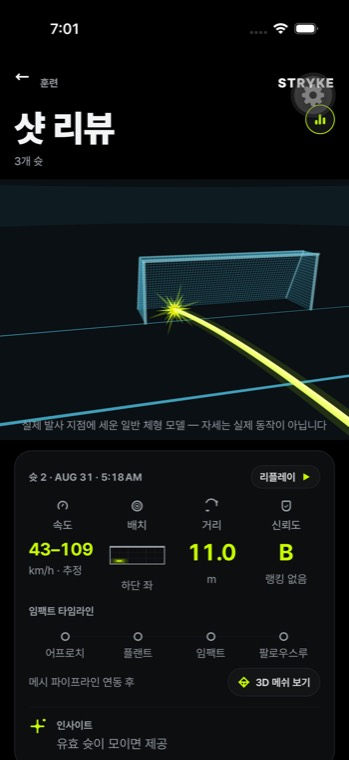
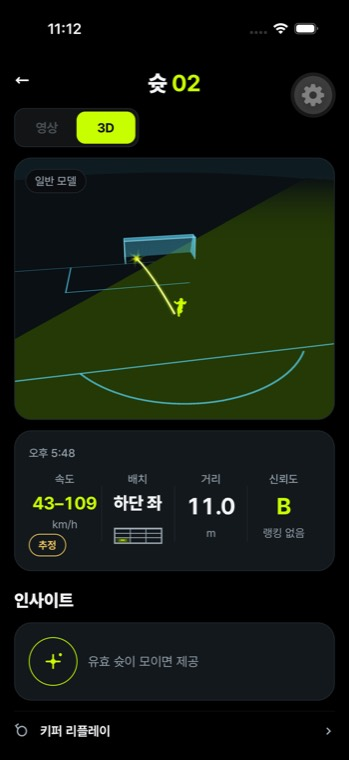
docs(stryke): design page after three QA rounds — all eight screens exist, none match
Records, Rankings and Compare were built during the loop; at round 1 they did
not exist at all. Build column refreshed to the round-3 captures.

Records the scores rather than the impression: average 43/100 across thirty
agents and three rounds, no screen passing. Setup closest at 62, Compare
furthest at 24. The loop ran out of rounds, not out of gaps.

Also records the one gap refused on honesty grounds — the JK 팁 card wants a
photographed coach portrait, and a generated face presented as a real coach is
not shippable at any fidelity score.

diff --git a/stryke/design.html b/stryke/design.html
@@ -57,7 +57,7 @@ footer{margin-top:60px;padding-top:18px;border-top:1px solid var(--line);color:v
 <p class="eyebrow">STRYKE · design targets vs the build</p>
 <h1>The <em>Design</em></h1>
 <p class="lede">The eight screens we are building toward, each next to what the app actually renders today. The gap is the point of the page — this is a working document, not a portfolio.</p>
-<p class="lede" style="font-size:13.5px;margin-top:14px">Build screenshots are from the simulator at 19:00 on 31 Aug 2026, captured by the design-QA loop. A second round is running now; where a screen says a fix is in progress, that is what is meant.</p>
+<p class="lede" style="font-size:13.5px;margin-top:14px">Build screenshots are unretouched simulator captures after <b>three rounds</b> of the design-QA loop, 31 Aug 2026. The score on each screen is that round's adversarial fidelity rating against its mockup. <b>Average 43/100, and not one screen passed.</b></p>
 
 <h2><span class="n">01</span>The colour system</h2>
 <p>Five colours, and that is the whole palette. The most important rule here is the last one: amber is not decoration.</p>
@@ -79,7 +79,7 @@ footer{margin-top:60px;padding-top:18px;border-top:1px solid var(--line);color:v
 <p>Left is the target, right is the build. Where the right side is missing, the screen does not exist yet.</p>
 
 <div class="scr">
-<h3>01 · Discover <span style="color:var(--mut);font-weight:400">디스커버</span> <span class="tag t-part">partial</span></h3>
+<h3>01 · Discover <span style="color:var(--mut);font-weight:400">디스커버</span> <span class="tag t-part">46/100</span></h3>
 <div class="pair">
   <div class="shot"><div class="cap tgt">Target</div><img src="design/mock-01.jpg" alt="Discover target"></div>
   <div class="shot"><div class="cap now">Build</div><img src="design/build-discover.jpg" alt="Discover build"></div>
@@ -91,7 +91,7 @@ footer{margin-top:60px;padding-top:18px;border-top:1px solid var(--line);color:v
 </div>
 
 <div class="scr">
-<h3>02 · Setup <span style="color:var(--mut);font-weight:400">세팅</span> <span class="tag t-part">partial</span></h3>
+<h3>02 · Setup <span style="color:var(--mut);font-weight:400">세팅</span> <span class="tag t-part">62/100 — best</span></h3>
 <div class="pair">
   <div class="shot"><div class="cap tgt">Target</div><img src="design/mock-02.jpg" alt="Setup target"></div>
   <div class="shot"><div class="cap now">Build</div><img src="design/build-setup.jpg" alt="Setup build"></div>
@@ -102,7 +102,7 @@ footer{margin-top:60px;padding-top:18px;border-top:1px solid var(--line);color:v
 </div>
 
 <div class="scr">
-<h3>03 · Shot map <span style="color:var(--mut);font-weight:400">숏 맵</span> <span class="tag t-part">partial</span></h3>
+<h3>03 · Shot map <span style="color:var(--mut);font-weight:400">숏 맵</span> <span class="tag t-part">52/100</span></h3>
 <div class="pair">
   <div class="shot"><div class="cap tgt">Target</div><img src="design/mock-03.jpg" alt="Shot map target"></div>
   <div class="shot"><div class="cap now">Build</div><img src="design/build-shotmap.jpg" alt="Shot map build"></div>
@@ -114,7 +114,7 @@ footer{margin-top:60px;padding-top:18px;border-top:1px solid var(--line);color:v
 </div>
 
 <div class="scr">
-<h3>04 · Keeper replay <span style="color:var(--mut);font-weight:400">키퍼 리플레이</span> <span class="tag t-part">partial</span></h3>
+<h3>04 · Keeper replay <span style="color:var(--mut);font-weight:400">키퍼 리플레이</span> <span class="tag t-part">34/100</span></h3>
 <div class="pair">
   <div class="shot"><div class="cap tgt">Target</div><img src="design/mock-04.jpg" alt="Keeper target"></div>
   <div class="shot"><div class="cap now">Build</div><img src="design/build-keeper.jpg" alt="Keeper build"></div>
@@ -126,21 +126,21 @@ footer{margin-top:60px;padding-top:18px;border-top:1px solid var(--line);color:v
 </div>
 
 <div class="scr">
-<h3>05 · Records <span style="color:var(--mut);font-weight:400">기록</span> <span class="tag t-no">does not exist</span></h3>
+<h3>05 · Records <span style="color:var(--mut);font-weight:400">기록</span> <span class="tag t-part">42/100</span></h3>
 <div class="pair">
   <div class="shot"><div class="cap tgt">Target</div><img src="design/mock-05.jpg" alt="Records target"></div>
-  <div class="shot absent">Not built<br><span style="color:var(--mut);letter-spacing:1px">no such screen in the app</span></div>
+  <div class="shot"><div class="cap now">Build</div><img src="design/build-records.jpg" alt="Records build"></div>
 </div>
 <ul class="gaps">
-<li>The whole screen is missing. When it is built, an empty history must render an empty state — never sample curves.</li>
+<li>Built during the loop. Scored <b>42/100</b> — the structure is there, the density and hierarchy are not.</li>
 </ul>
 </div>
 
 <div class="scr">
-<h3>06 · Rankings <span style="color:var(--mut);font-weight:400">랭킹</span> <span class="tag t-wip">being built now</span></h3>
+<h3>06 · Rankings <span style="color:var(--mut);font-weight:400">랭킹</span> <span class="tag t-part">40/100</span></h3>
 <div class="pair">
   <div class="shot"><div class="cap tgt">Target</div><img src="design/mock-06.jpg" alt="Rankings target"></div>
-  <div class="shot absent">Not built<br><span style="color:var(--mut);letter-spacing:1px">API and seed accounts in progress</span></div>
+  <div class="shot"><div class="cap now">Build</div><img src="design/build-ranking.jpg" alt="Rankings build"></div>
 </div>
 <ul class="gaps">
 <li><b>상위 7% is cut and stays cut.</b> A percentile is a claim about a population; a rank is a fact about an ordered list. We can honestly say 12th. We cannot say top 7%.</li>
@@ -151,7 +151,7 @@ footer{margin-top:60px;padding-top:18px;border-top:1px solid var(--line);color:v
 </div>
 
 <div class="scr">
-<h3>07 · Shot detail <span style="color:var(--mut);font-weight:400">숏 02</span> <span class="tag t-part">partial</span></h3>
+<h3>07 · Shot detail <span style="color:var(--mut);font-weight:400">숏 02</span> <span class="tag t-part">46/100</span></h3>
 <div class="pair">
   <div class="shot"><div class="cap tgt">Target</div><img src="design/mock-07.jpg" alt="Shot detail target"></div>
   <div class="shot"><div class="cap now">Build</div><img src="design/build-shotdetail.jpg" alt="Shot detail build"></div>
@@ -163,12 +163,13 @@ footer{margin-top:60px;padding-top:18px;border-top:1px solid var(--line);color:v
 </div>
 
 <div class="scr">
-<h3>08 · Compare <span style="color:var(--mut);font-weight:400">비교</span> <span class="tag t-no">does not exist</span></h3>
+<h3>08 · Compare <span style="color:var(--mut);font-weight:400">비교</span> <span class="tag t-no">24/100 — weakest</span></h3>
 <div class="pair">
   <div class="shot"><div class="cap tgt">Target</div><img src="design/mock-08.jpg" alt="Compare target"></div>
-  <div class="shot absent">Not built<br><span style="color:var(--mut);letter-spacing:1px">no such screen in the app</span></div>
+  <div class="shot"><div class="cap now">Build</div><img src="design/build-compare.jpg" alt="Compare build"></div>
 </div>
 <ul class="gaps">
+<li>Built during the loop, and the <b>weakest screen at 24/100</b> — the furthest from its target of any of the eight.</li>
 <li>Lime versus cyan body mesh, plant-foot distance 124 vs 112 cm, chest angle −6° vs 0°. This is the clearest expression of the product's actual thesis: measure, compare, explain — and change one thing next time.</li>
 <li>Every difference shown here must be traceable to a real measurement on both sides. A comparison against a pose we did not measure is not a comparison.</li>
 </ul>
@@ -182,7 +183,9 @@ footer{margin-top:60px;padding-top:18px;border-top:1px solid var(--line);color:v
 <ul>
 <li><b>Landed:</b> the five-colour palette and both typefaces are in <code>theme.ts</code>. The kit's foundation is real.</li>
 <li><b>Two screens do not exist at all</b> — Records and Compare. A third, Rankings, is being built now with its API and seeded accounts.</li>
-<li><b>Round 1 of the design loop found the gaps and applied none of them</b> — the fix lane was killed by a usage limit before it wrote a line. Round 2 is running now, so the build screenshots above are the <em>pre-fix</em> state.</li>
+<li><b>All eight screens now exist.</b> Records, Rankings and Compare were built during the loop; at round 1 they did not exist at all.</li>
+<li><b>Existing is not matching.</b> Three rounds, thirty agents, average <b>43/100</b>, and <em>no screen passed</em>. Setup is closest at 62; Compare is furthest at 24. The loop ran out of rounds, not out of gaps.</li>
+<li><b>One gap was refused on honesty grounds</b> and stays refused: the JK 팁 card wants a photographed coach portrait. A generated face presented as a real coach is not shippable. The honest version is the same card geometry with a line icon, real tip copy, and the play button hidden until a real clip exists.</li>
 </ul>
 
 <footer>
